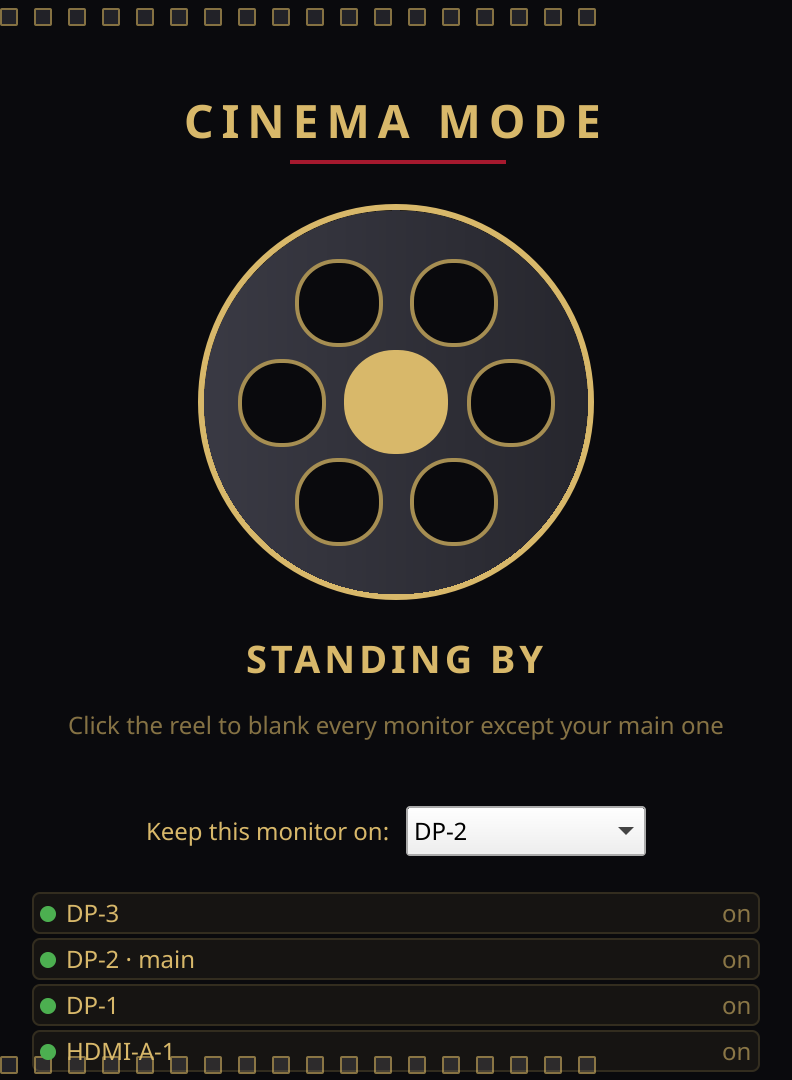
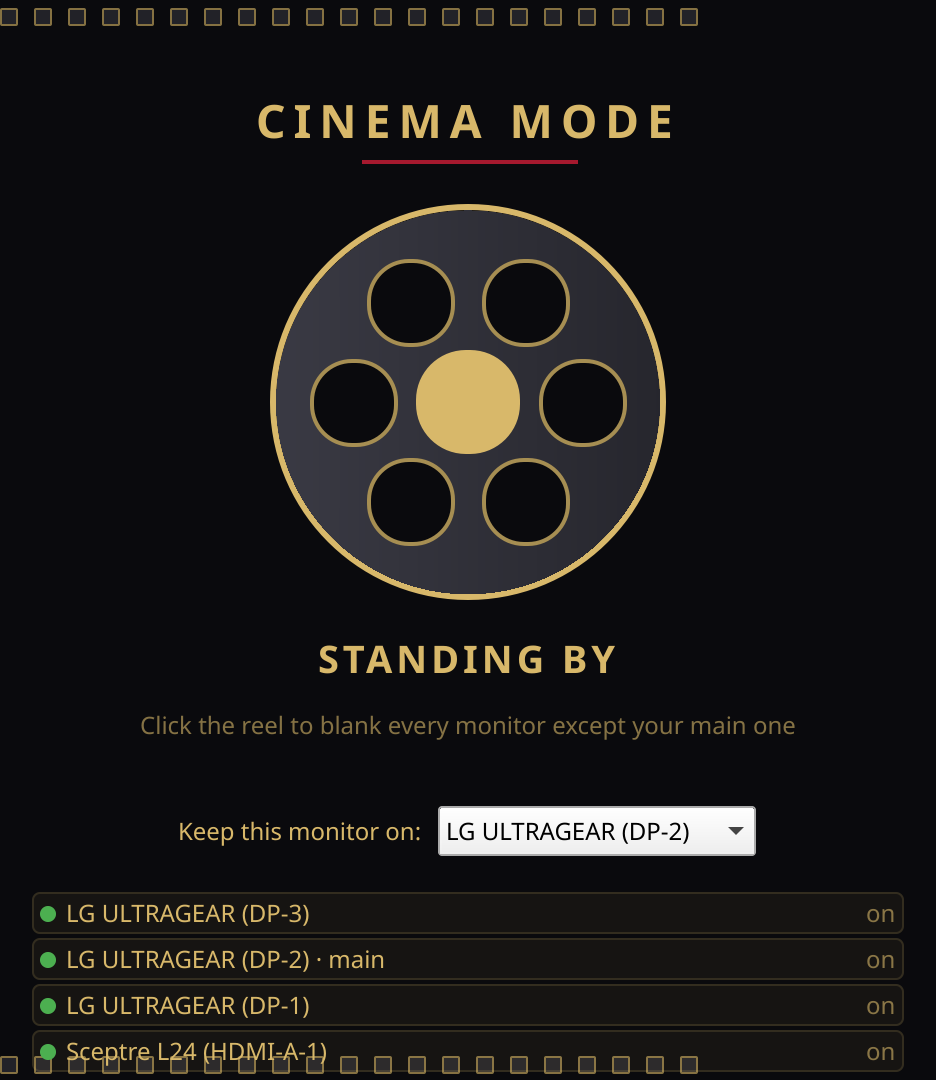
Show real monitor names and fix indefinite-hang risk (v1.2.0)
- Read each display's EDID directly from sysfs to show real monitor
  names (e.g. "LG UltraGear (DP-2)") instead of bare connector names,
  in both the monitor list and the "keep this monitor on" dropdown.
- Fix a real bug: toggleCinema() used a blocking QProcess call with no
  timeout at all, so a hung kscreen-doctor could freeze the app
  indefinitely. It now shares a timeout+kill-safe helper with the
  existing output query path.
- Add qWarning() diagnostics for kscreen-doctor failures, timeouts,
  and JSON parse errors, plus a README Troubleshooting section
  explaining how to see them.
- Only emit the outputs-changed signal when the output list actually
  changes, avoiding unnecessary UI rebuilds.
- Small robustness/packaging cleanup: null-guard on the tray tooltip
  callback, clearer naming for the first-run default output, desktop
  file Keywords for launcher search, SPDX license headers.
- Refreshed screenshots to reflect the new monitor names.

diff --git a/qml/Main.qml b/qml/Main.qml
@@ -1,3 +1,4 @@
+// SPDX-License-Identifier: GPL-3.0-or-later
 import QtQuick
 import QtQuick.Controls as Controls
 import QtQuick.Layouts
@@ -8,9 +9,9 @@ Kirigami.ApplicationWindow {
     id: root
 
     title: qsTr("Cinema Mode")
-    width: Kirigami.Units.gridUnit * 22
+    width: Kirigami.Units.gridUnit * 26
     height: Kirigami.Units.gridUnit * 30
-    minimumWidth: Kirigami.Units.gridUnit * 18
+    minimumWidth: Kirigami.Units.gridUnit * 20
     minimumHeight: Kirigami.Units.gridUnit * 24
 
     pageStack.globalToolBar.style: Kirigami.ApplicationHeaderStyle.None
@@ -217,9 +218,11 @@ Kirigami.ApplicationWindow {
 
                 Controls.ComboBox {
                     Kirigami.FormData.label: qsTr("Keep this monitor on:")
-                    model: MonitorController.outputs.map(o => o.name)
-                    currentIndex: model.indexOf(MonitorController.mainOutput)
-                    onActivated: MonitorController.mainOutput = currentText
+                    readonly property var outputNames: MonitorController.outputs.map(o => o.name)
+                    model: MonitorController.outputs.map(o => o.label)
+                    currentIndex: outputNames.indexOf(MonitorController.mainOutput)
+                    onActivated: MonitorController.mainOutput = outputNames[currentIndex]
+                    implicitContentWidthPolicy: Controls.ComboBox.WidestText
                 }
             }
 
@@ -254,7 +257,7 @@ Kirigami.ApplicationWindow {
                             }
 
                             Controls.Label {
-                                text: modelData.name + (modelData.name === MonitorController.mainOutput ? qsTr(" · main") : "")
+                                text: modelData.label + (modelData.name === MonitorController.mainOutput ? qsTr(" · main") : "")
                                 color: root.marqueeGold
                             }
 

diff --git a/src/monitorcontroller.cpp b/src/monitorcontroller.cpp
@@ -1,3 +1,4 @@
+// SPDX-License-Identifier: GPL-3.0-or-later
 #include "monitorcontroller.h"
 
 #include <QProcess>
@@ -7,11 +8,61 @@
 #include <QJsonArray>
 #include <QSettings>
 #include <QStringList>
+#include <QDir>
+#include <QFile>
+#include <QDebug>
 
 namespace {
-constexpr auto kDefaultMainOutput = "DP-2";
+constexpr int kProcessTimeoutMs = 3000;
 
-QJsonArray queryOutputs()
+// Only used to seed QSettings on first launch; the fallback logic in
+// refreshOutputs() (the mainStillConnected check) immediately replaces this
+// if it turns out not to be an output that's actually connected.
+constexpr auto kFirstRunMainOutputHint = "DP-2";
+
+// Reads the monitor's own "Display Product Name" out of its EDID, straight from
+// sysfs — kscreen-doctor's JSON only ever gives us the connector name (DP-2 etc.),
+// never the actual manufacturer/model, so this is the only way to show a human name.
+QString friendlyNameFromEdid(const QString &connectorName)
+{
+    QDir drmDir(QStringLiteral("/sys/class/drm"));
+    const QStringList matches = drmDir.entryList({QStringLiteral("card*-%1").arg(connectorName)}, QDir::Dirs);
+    if (matches.isEmpty()) {
+        return {};
+    }
+
+    QFile edidFile(drmDir.filePath(matches.first() + QStringLiteral("/edid")));
+    if (!edidFile.open(QIODevice::ReadOnly)) {
+        return {};
+    }
+    const QByteArray edid = edidFile.readAll();
+
+    if (edid.size() < 128 || edid.left(8) != QByteArray::fromHex("00ffffffffffff00")) {
+        return {}; // not a valid base EDID block
+    }
+
+    // The four 18-byte descriptor blocks starting at offset 54 are either detailed
+    // timings or "display descriptors". A display descriptor has bytes 0-1 zero and
+    // byte 3 as a type tag; 0xFC is the display product name, stored as 13 bytes
+    // of padded ASCII at bytes 5-17.
+    for (const int offset : {54, 72, 90, 108}) {
+        const QByteArray block = edid.mid(offset, 18);
+        if (block.size() != 18 || block[0] != '\x00' || block[1] != '\x00') {
+            continue;
+        }
+        if (static_cast<unsigned char>(block[3]) == 0xFC) {
+            const QString name = QString::fromLatin1(block.mid(5, 13)).trimmed();
+            if (!name.isEmpty()) {
+                return name;
+            }
+        }
+    }
+    return {};
+}
+
+// Runs kscreen-doctor with the given arguments, waiting up to kProcessTimeoutMs.
+// Returns false (after killing/reaping the process) if it hangs or fails to start.
+bool runKscreenDoctor(const QStringList &args, QByteArray *standardOutput = nullptr)
 {
     QProcess process;
 
@@ -22,11 +73,32 @@ QJsonArray queryOutputs()
     env.remove(QStringLiteral("QT_QPA_PLATFORM"));
     process.setProcessEnvironment(env);
 
-    process.start(QStringLiteral("kscreen-doctor"), {QStringLiteral("-j")});
-    process.waitForFinished(3000);
-    const QByteArray raw = process.readAllStandardOutput();
+    process.start(QStringLiteral("kscreen-doctor"), args);
+    if (!process.waitForFinished(kProcessTimeoutMs)) {
+        qWarning() << "kscreen-doctor timed out or failed to start:" << process.errorString();
+        process.kill();
+        process.waitForFinished(1000);
+        return false;
+    }
 
-    const QJsonDocument doc = QJsonDocument::fromJson(raw);
+    if (standardOutput) {
+        *standardOutput = process.readAllStandardOutput();
+    }
+    return true;
+}
+
+QJsonArray queryOutputs()
+{
+    QByteArray raw;
+    if (!runKscreenDoctor({QStringLiteral("-j")}, &raw)) {
+        return QJsonArray{};
+    }
+
+    QJsonParseError parseError;
+    const QJsonDocument doc = QJsonDocument::fromJson(raw, &parseError);
+    if (parseError.error != QJsonParseError::NoError) {
+        qWarning() << "Failed to parse kscreen-doctor JSON:" << parseError.errorString();
+    }
     return doc.object().value(QStringLiteral("outputs")).toArray();
 }
 }
@@ -35,7 +107,7 @@ MonitorController::MonitorController(QObject *parent)
     : QObject(parent)
 {
     QSettings settings;
-    m_mainOutput = settings.value(QStringLiteral("mainOutput"), QString::fromLatin1(kDefaultMainOutput)).toString();
+    m_mainOutput = settings.value(QStringLiteral("mainOutput"), QString::fromLatin1(kFirstRunMainOutputHint)).toString();
 
     refreshOutputs();
 }
@@ -70,6 +142,7 @@ bool MonitorController::cinemaActive() const
 
 void MonitorController::refreshOutputs()
 {
+    const QVariantList previousOutputs = m_outputs;
     m_outputs.clear();
 
     const QJsonArray outputs = queryOutputs();
@@ -85,9 +158,14 @@ void MonitorController::refreshOutputs()
         const QString name = obj.value(QStringLiteral("name")).toString();
         const bool enabled = obj.value(QStringLiteral("enabled")).toBool();
 
+        const QString friendlyName = friendlyNameFromEdid(name);
+
         QVariantMap entry;
         entry[QStringLiteral("name")] = name;
         entry[QStringLiteral("enabled")] = enabled;
+        entry[QStringLiteral("label")] = friendlyName.isEmpty()
+            ? name
+            : QStringLiteral("%1 (%2)").arg(friendlyName, name);
         m_outputs.append(entry);
 
         sawConnected = true;
@@ -108,7 +186,13 @@ void MonitorController::refreshOutputs()
         setMainOutput(m_outputs.first().toMap().value(QStringLiteral("name")).toString());
     }
 
-    emit outputsChanged();
+    if (!sawConnected) {
+        qWarning() << "No connected monitor outputs detected from kscreen-doctor";
+    }
+
+    if (m_outputs != previousOutputs) {
+        emit outputsChanged();
+    }
 
     const bool newActive = anyDisabled;
     if (newActive != m_cinemaActive) {
@@ -133,7 +217,7 @@ void MonitorController::toggleCinema()
         return;
     }
 
-    QProcess::execute(QStringLiteral("kscreen-doctor"), args);
+    runKscreenDoctor(args);
 
     refreshOutputs();
 }

diff --git a/src/main.cpp b/src/main.cpp
@@ -1,3 +1,4 @@
+// SPDX-License-Identifier: GPL-3.0-or-later
 #include <QApplication>
 #include <QQmlApplicationEngine>
 #include <QIcon>
@@ -74,6 +75,9 @@ int main(int argc, char *argv[])
                       });
 
     auto updateTrayTooltip = [&trayIcon, controller] {
+        if (!controller) {
+            return;
+        }
         trayIcon.setToolTip(QStringLiteral("org.cinemamode.app"), QObject::tr("Cinema Mode"),
                              controller->cinemaActive() ? QObject::tr("Now Showing") : QObject::tr("Standing By"));
     };

diff --git a/src/monitorcontroller.h b/src/monitorcontroller.h
@@ -1,3 +1,4 @@
+// SPDX-License-Identifier: GPL-3.0-or-later
 #pragma once
 
 #include <QObject>

diff --git a/README.md b/README.md
@@ -41,6 +41,10 @@ To install system-wide:
 sudo cmake --install build
 ```
 
+## Troubleshooting
+
+If toggling cinema mode doesn't seem to do anything, the underlying `kscreen-doctor` call is almost certainly failing or timing out. Run `cinemamode` from a terminal to see warnings directly, or check `journalctl --user -f` while you click the button — look for messages like "kscreen-doctor timed out or failed to start", "Failed to parse kscreen-doctor JSON", or "No connected monitor outputs detected".
+
 ## Installing
 
 - **AUR**: not yet published (see `packaging/PKGBUILD`)